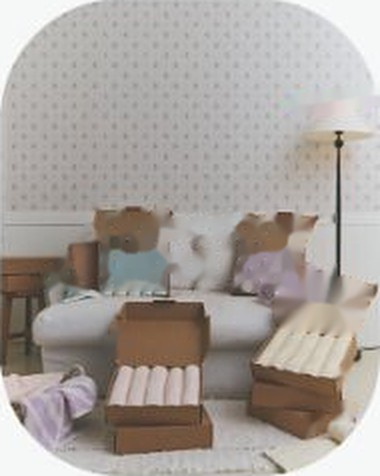
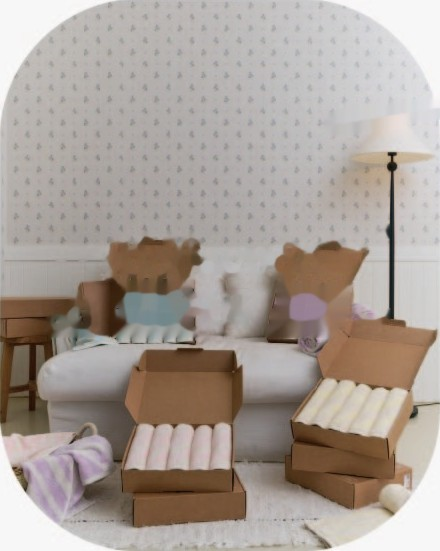
Re-extract draft images from full-resolution CMYK originals with color conversion
- Convert Japan Color 2001 CMYK originals to sRGB before cropping
- Sharper photos (2.3x), corrected site colors (#241a18 ink, #f7f7f7 page, #4c78bb point)

diff --git a/src/app/globals.css b/src/app/globals.css
@@ -3,15 +3,15 @@
 
 /* 테리웰 디자인 토큰 */
 @theme {
-  /* 값은 reference/ 시안에서 뽑았다 */
-  --color-ink: #1f2f36;          /* 제목·본문, 짙은 남색 (CUSTOM LABEL, Better, 버튼) */
+  /* 값은 reference/original 시안(CMYK → sRGB 변환)에서 뽑았다 */
+  --color-ink: #241a18;          /* 제목·본문·버튼 (CUSTOM LABEL, Better, 견적문의 버튼) */
   --color-muted: #6f7679;        /* 보조 글자 */
   --color-line: #d9dcdc;         /* 헤더 아래선 등 */
   --color-paper: #ffffff;        /* 푸터, 카드 */
-  --color-page: #f5f6f6;         /* 페이지 바탕 */
+  --color-page: #f7f7f7;         /* 페이지 바탕 */
   --color-cloud: #eceeee;        /* placeholder */
-  --color-point: #4c77b4;        /* 로고 파랑 */
-  --color-point-dark: #3b62a0;
+  --color-point: #4c78bb;        /* 로고 파랑 */
+  --color-point-dark: #3a63a3;
   --color-alert: #d9443f;        /* 에디터 [편집종료] 전용 */
 
   --font-sans: "Pretendard Variable", Pretendard, -apple-system, "Apple SD Gothic Neo", "Malgun Gothic", sans-serif;

diff --git a/src/app/layout.tsx b/src/app/layout.tsx
@@ -14,7 +14,7 @@ export const metadata: Metadata = {
   description: "A Better Everyday, Woven into Every Towel. 커스텀 라벨 수건 테리웰",
 };
 
-export const viewport: Viewport = { width: "device-width", initialScale: 1, themeColor: "#f5f6f6" };
+export const viewport: Viewport = { width: "device-width", initialScale: 1, themeColor: "#f7f7f7" };
 
 export default function RootLayout({ children }: LayoutProps<"/">) {
   return (

diff --git a/DECISIONS.md b/DECISIONS.md
@@ -16,3 +16,8 @@
 - Docker가 없어 Supabase 로컬 실행 불가 → `NEXT_PUBLIC_SUPABASE_URL` 이 없으면 **로컬 모드**로 동작
   (`.data/db.json` 파일 DB + 개발용 로그인). 키를 넣으면 같은 코드가 Supabase를 사용한다.
 - 레퍼런스 파일명 주의: `02_label-editor.jpg` 의 실제 내용은 제품 상세, `03_product-detail.jpg` 가 에디터.
+
+## 2026-10-04 (2)
+- 사용자가 준 원본 시안(가로 18,533px, CMYK Japan Color 2001)을 `reference/original/` 에 두고, sRGB 로 변환해 이미지·색을 다시 뽑았다.
+  zip 의 `reference/*.jpg`(가로 8,000px)는 색 변환 없이 줄인 것이라 색이 다르다 → 색·이미지는 original 기준.
+- 사이트 색: 글자·버튼 #241a18, 바탕 #f7f7f7, 로고 파랑 #4c78bb.
